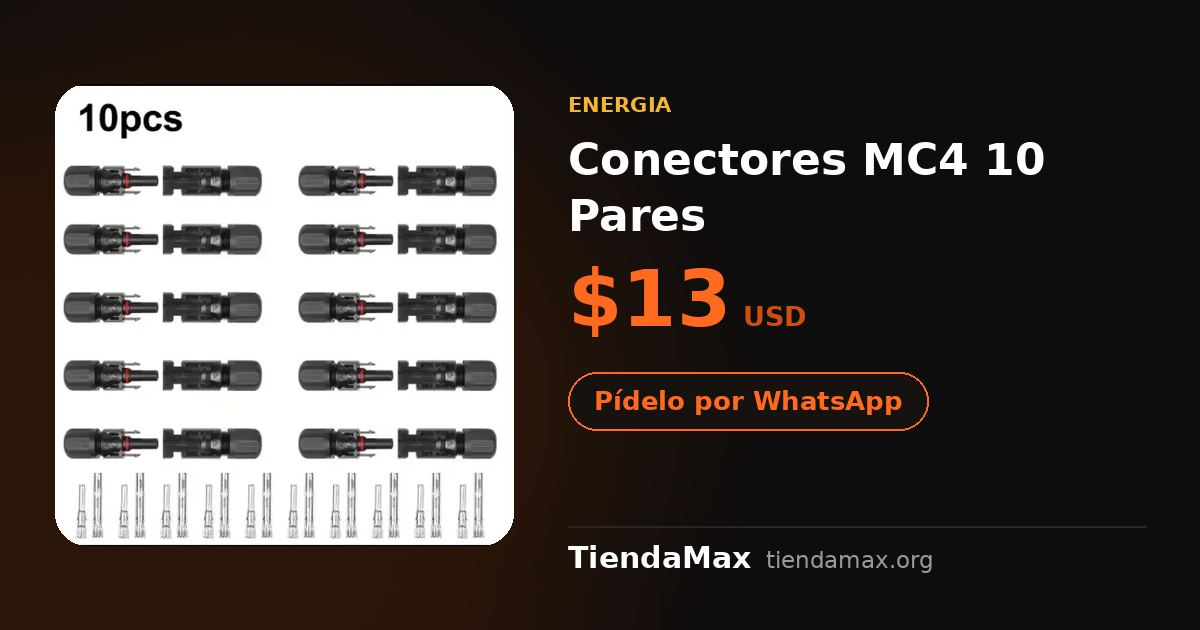
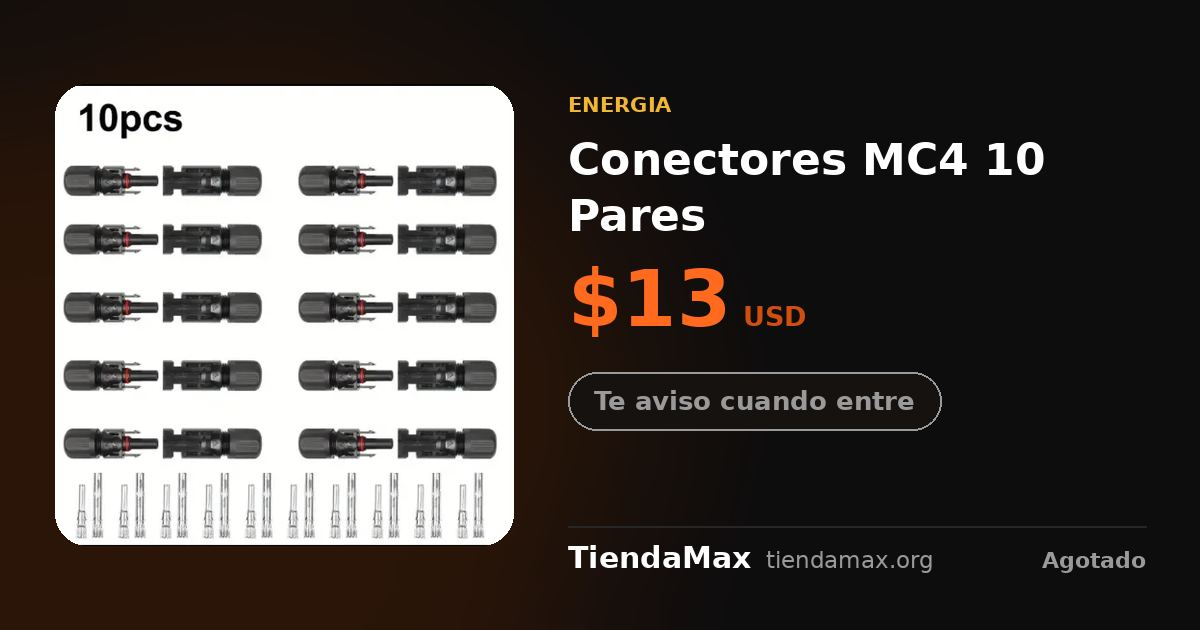
chore: regenerar artefactos (sitemap, /p/, subcats, seo) [skip ci]

Changed region(s): [[0.4625, 0.573, 0.8017, 0.6937], [0.8633, 0.8746, 0.9558, 0.9048]]

diff --git a/c/energia.html b/c/energia.html
@@ -4,13 +4,13 @@
 <meta charset="UTF-8">
 <meta name="viewport" content="width=device-width, initial-scale=1.0">
 <title>Energía en Cuba — Envío a domicilio | TiendaMax</title>
-<meta name="description" content="14 productos de energia disponibles en TiendaMax. Envío a toda Cuba, pago contra entrega en USD o MN.">
+<meta name="description" content="13 productos de energia disponibles en TiendaMax. Envío a toda Cuba, pago contra entrega en USD o MN.">
 <meta name="robots" content="index, follow">
 <link rel="canonical" href="https://tiendamax.org/c/energia.html">
 
 <meta property="og:type" content="website">
 <meta property="og:title" content="Energía en Cuba — Envío a domicilio | TiendaMax">
-<meta property="og:description" content="14 productos de energia disponibles en TiendaMax. Envío a toda Cuba, pago contra entrega en USD o MN.">
+<meta property="og:description" content="13 productos de energia disponibles en TiendaMax. Envío a toda Cuba, pago contra entrega en USD o MN.">
 <meta property="og:url" content="https://tiendamax.org/c/energia.html">
 <meta property="og:site_name" content="TiendaMax">
 <meta property="og:locale" content="es_CU">
@@ -20,7 +20,7 @@
   "@context": "https://schema.org",
   "@type": "CollectionPage",
   "name": "ENERGIA \u2014 TiendaMax",
-  "description": "14 productos de energia disponibles en TiendaMax. Env\u00edo a toda Cuba, pago contra entrega en USD o MN.",
+  "description": "13 productos de energia disponibles en TiendaMax. Env\u00edo a toda Cuba, pago contra entrega en USD o MN.",
   "url": "https://tiendamax.org/c/energia.html",
   "mainEntity": {
     "@type": "ItemList",
@@ -35,26 +35,26 @@
     {"@type": "ListItem", "position": 9, "url": "https://tiendamax.org/p/protector-tomzn-tovpd1-60", "name": "Protector de Voltaje y Sobrecorriente TOMZN TOVPD1-60"},
     {"@type": "ListItem", "position": 10, "url": "https://tiendamax.org/p/cargador-vevor-35a", "name": "Cargador y Mantenedor de Baterías VEVOR 35A"},
     {"@type": "ListItem", "position": 11, "url": "https://tiendamax.org/p/controlador-mppt-boost-1200w", "name": "Controlador MPPT Boost 1200W"},
-    {"@type": "ListItem", "position": 12, "url": "https://tiendamax.org/p/conectores-mc4-10-pares", "name": "Conectores MC4 10 Pares"},
-    {"@type": "ListItem", "position": 13, "url": "https://tiendamax.org/p/inversor-tataliken-3500w", "name": "Inversor Tataliken 3500W"},
-    {"@type": "ListItem", "position": 14, "url": "https://tiendamax.org/p/cargador-vevor-30a", "name": "VEVOR Cargador de Batería Inteligente 30A"},
-    {"@type": "ListItem", "position": 15, "url": "https://tiendamax.org/p/cargador-inteligente-15a", "name": "Cargador Inteligente 15A"},
-    {"@type": "ListItem", "position": 16, "url": "https://tiendamax.org/p/cargador-10-amperes", "name": "Cargador 10 Amperes"},
-    {"@type": "ListItem", "position": 17, "url": "https://tiendamax.org/p/controlador-mppt-100a-powmr", "name": "Controlador MPPT 100A POWMR"},
-    {"@type": "ListItem", "position": 18, "url": "https://tiendamax.org/p/inversor-hibrido-3600w", "name": "Inversor Solar Híbrido Inteligente MPPT de 3.6KW"},
-    {"@type": "ListItem", "position": 19, "url": "https://tiendamax.org/p/inversor-solar-powmr-5000w", "name": "Inversor Solar Híbrido POWMR 5000W"},
-    {"@type": "ListItem", "position": 20, "url": "https://tiendamax.org/p/controlador-mppt-100a", "name": "Controlador MPPT 100A"},
-    {"@type": "ListItem", "position": 21, "url": "https://tiendamax.org/p/bluetti-ac-180p", "name": "BLUETTI AC 180P"},
-    {"@type": "ListItem", "position": 22, "url": "https://tiendamax.org/p/cargador-portatil-solar", "name": "Cargador Portátil Solar"},
-    {"@type": "ListItem", "position": 23, "url": "https://tiendamax.org/p/cargador-inteligente-25a", "name": "Cargadores Inteligentes de 25A"},
-    {"@type": "ListItem", "position": 24, "url": "https://tiendamax.org/p/inversor-must-pv15-1524-lv", "name": "Inversor Solar Must PV15-1524 lv"},
-    {"@type": "ListItem", "position": 25, "url": "https://tiendamax.org/p/interruptor-geya-220v", "name": "Interruptor de Transferencia Automática Geya (220V)"},
-    {"@type": "ListItem", "position": 26, "url": "https://tiendamax.org/p/cargador-corebox-12v-15a", "name": "Cargador Corebox 12V 15A"},
-    {"@type": "ListItem", "position": 27, "url": "https://tiendamax.org/p/cargador-ntrc-20a", "name": "Cargador NTRC 20A"},
-    {"@type": "ListItem", "position": 28, "url": "https://tiendamax.org/p/cargador-ntrc-35a", "name": "Cargador NTRC 35A"},
-    {"@type": "ListItem", "position": 29, "url": "https://tiendamax.org/p/controlador-mppt-100a-usb", "name": "Controlador MPPT 100A Con USB"},
-    {"@type": "ListItem", "position": 30, "url": "https://tiendamax.org/p/controlador-mppt-150a", "name": "Controlador MPPT 150A"},
-    {"@type": "ListItem", "position": 31, "url": "https://tiendamax.org/p/controlador-mppt-120a-yh", "name": "Controlador MPPT 120A Y&H"}]
+    {"@type": "ListItem", "position": 12, "url": "https://tiendamax.org/p/inversor-tataliken-3500w", "name": "Inversor Tataliken 3500W"},
+    {"@type": "ListItem", "position": 13, "url": "https://tiendamax.org/p/cargador-vevor-30a", "name": "VEVOR Cargador de Batería Inteligente 30A"},
+    {"@type": "ListItem", "position": 14, "url": "https://tiendamax.org/p/cargador-inteligente-15a", "name": "Cargador Inteligente 15A"},
+    {"@type": "ListItem", "position": 15, "url": "https://tiendamax.org/p/cargador-10-amperes", "name": "Cargador 10 Amperes"},
+    {"@type": "ListItem", "position": 16, "url": "https://tiendamax.org/p/controlador-mppt-100a-powmr", "name": "Controlador MPPT 100A POWMR"},
+    {"@type": "ListItem", "position": 17, "url": "https://tiendamax.org/p/inversor-hibrido-3600w", "name": "Inversor Solar Híbrido Inteligente MPPT de 3.6KW"},
+    {"@type": "ListItem", "position": 18, "url": "https://tiendamax.org/p/inversor-solar-powmr-5000w", "name": "Inversor Solar Híbrido POWMR 5000W"},
+    {"@type": "ListItem", "position": 19, "url": "https://tiendamax.org/p/controlador-mppt-100a", "name": "Controlador MPPT 100A"},
+    {"@type": "ListItem", "position": 20, "url": "https://tiendamax.org/p/bluetti-ac-180p", "name": "BLUETTI AC 180P"},
+    {"@type": "ListItem", "position": 21, "url": "https://tiendamax.org/p/cargador-portatil-solar", "name": "Cargador Portátil Solar"},
+    {"@type": "ListItem", "position": 22, "url": "https://tiendamax.org/p/cargador-inteligente-25a", "name": "Cargadores Inteligentes de 25A"},
+    {"@type": "ListItem", "position": 23, "url": "https://tiendamax.org/p/inversor-must-pv15-1524-lv", "name": "Inversor Solar Must PV15-1524 lv"},
+    {"@type": "ListItem", "position": 24, "url": "https://tiendamax.org/p/interruptor-geya-220v", "name": "Interruptor de Transferencia Automática Geya (220V)"},
+    {"@type": "ListItem", "position": 25, "url": "https://tiendamax.org/p/cargador-corebox-12v-15a", "name": "Cargador Corebox 12V 15A"},
+    {"@type": "ListItem", "position": 26, "url": "https://tiendamax.org/p/cargador-ntrc-20a", "name": "Cargador NTRC 20A"},
+    {"@type": "ListItem", "position": 27, "url": "https://tiendamax.org/p/cargador-ntrc-35a", "name": "Cargador NTRC 35A"},
+    {"@type": "ListItem", "position": 28, "url": "https://tiendamax.org/p/controlador-mppt-100a-usb", "name": "Controlador MPPT 100A Con USB"},
+    {"@type": "ListItem", "position": 29, "url": "https://tiendamax.org/p/controlador-mppt-150a", "name": "Controlador MPPT 150A"},
+    {"@type": "ListItem", "position": 30, "url": "https://tiendamax.org/p/controlador-mppt-120a-yh", "name": "Controlador MPPT 120A Y&H"},
+    {"@type": "ListItem", "position": 31, "url": "https://tiendamax.org/p/conectores-mc4-10-pares", "name": "Conectores MC4 10 Pares"}]
   }
 }
 </script>
@@ -95,7 +95,7 @@
 
 <main class="tm-wrap">
   <h1>⚡ Energía</h1>
-  <p class="tm-sub">14 productos de energia disponibles en TiendaMax. Envío a toda Cuba, pago contra entrega en USD o MN.</p>
+  <p class="tm-sub">13 productos de energia disponibles en TiendaMax. Envío a toda Cuba, pago contra entrega en USD o MN.</p>
   <a href="https://tiendamax.org/?categoria=ENERGIA" class="tm-cta">🛍 Ver todo Energía en la tienda</a>
   <div class="tm-grid">
     <a class="tm-card" href="https://tiendamax.org/p/inversor-tataliken-4000w"><img src="https://tiendamax.org/imagenes/img_1777924118004.webp" alt="Inversor Tataliken 4000W" loading="lazy"><div class="tm-card-body"><div class="tm-card-name">Inversor Tataliken 4000W</div><div class="tm-card-price">$180.00 USD</div></div></a>
@@ -109,7 +109,6 @@
     <a class="tm-card" href="https://tiendamax.org/p/protector-tomzn-tovpd1-60"><img src="https://tiendamax.org/imagenes/img_1786633493204.webp" alt="Protector de Voltaje y Sobrecorriente TOMZN TOVPD1-60" loading="lazy"><div class="tm-card-body"><div class="tm-card-name">Protector de Voltaje y Sobrecorriente TOMZN TOVPD1-60</div><div class="tm-card-price">$20.00 USD</div></div></a>
     <a class="tm-card" href="https://tiendamax.org/p/cargador-vevor-35a"><img src="https://tiendamax.org/imagenes/img_1787071781631.webp" alt="Cargador y Mantenedor de Baterías VEVOR 35A" loading="lazy"><div class="tm-card-body"><div class="tm-card-name">Cargador y Mantenedor de Baterías VEVOR 35A</div><div class="tm-card-price">$125.00 USD</div></div></a>
     <a class="tm-card" href="https://tiendamax.org/p/controlador-mppt-boost-1200w"><img src="https://tiendamax.org/imagenes/img_1787079474093.webp" alt="Controlador MPPT Boost 1200W" loading="lazy"><div class="tm-card-body"><div class="tm-card-name">Controlador MPPT Boost 1200W</div><div class="tm-card-price">$90.00 USD</div></div></a>
-    <a class="tm-card" href="https://tiendamax.org/p/conectores-mc4-10-pares"><img src="https://tiendamax.org/imagenes/img_1788368386636.webp" alt="Conectores MC4 10 Pares" loading="lazy"><div class="tm-card-body"><div class="tm-card-name">Conectores MC4 10 Pares</div><div class="tm-card-price">$13.00 USD</div></div></a>
     <a class="tm-card" href="https://tiendamax.org/p/inversor-tataliken-3500w"><img src="https://tiendamax.org/imagenes/img_1777924118004.webp" alt="Inversor Tataliken 3500W" loading="lazy"><div class="tm-card-body"><div class="tm-card-name">Inversor Tataliken 3500W</div><div class="tm-card-price">$170.00 USD</div></div></a>
     <a class="tm-card" href="https://tiendamax.org/p/cargador-vevor-30a"><img src="https://tiendamax.org/imagenes/img_1788627369327.webp" alt="VEVOR Cargador de Batería Inteligente 30A" loading="lazy"><div class="tm-card-body"><div class="tm-card-name">VEVOR Cargador de Batería Inteligente 30A</div><div class="tm-card-price">$115.00 USD</div></div></a>
     <a class="tm-card" href="https://tiendamax.org/p/cargador-inteligente-15a"><img src="https://tiendamax.org/imagenes/img_1780510718915.webp" alt="Cargador Inteligente 15A" loading="lazy"><div class="tm-card-body"><div class="tm-card-name">Cargador Inteligente 15A</div><div class="tm-card-price">$65.00 USD</div><div class="tm-card-out">Agotado</div></div></a>
@@ -129,6 +128,7 @@
     <a class="tm-card" href="https://tiendamax.org/p/controlador-mppt-100a-usb"><img src="https://tiendamax.org/imagenes/img_1784825170677.webp" alt="Controlador MPPT 100A Con USB" loading="lazy"><div class="tm-card-body"><div class="tm-card-name">Controlador MPPT 100A Con USB</div><div class="tm-card-price">$80.00 USD</div><div class="tm-card-out">Agotado</div></div></a>
     <a class="tm-card" href="https://tiendamax.org/p/controlador-mppt-150a"><img src="https://tiendamax.org/imagenes/img_1784823614881.webp" alt="Controlador MPPT 150A" loading="lazy"><div class="tm-card-body"><div class="tm-card-name">Controlador MPPT 150A</div><div class="tm-card-price">$90.00 USD</div><div class="tm-card-out">Agotado</div></div></a>
     <a class="tm-card" href="https://tiendamax.org/p/controlador-mppt-120a-yh"><img src="https://tiendamax.org/imagenes/img_1786633894922.webp" alt="Controlador MPPT 120A Y&amp;H" loading="lazy"><div class="tm-card-body"><div class="tm-card-name">Controlador MPPT 120A Y&amp;H</div><div class="tm-card-price">$260.00 USD</div><div class="tm-card-out">Agotado</div></div></a>
+    <a class="tm-card" href="https://tiendamax.org/p/conectores-mc4-10-pares"><img src="https://tiendamax.org/imagenes/img_1788368386636.webp" alt="Conectores MC4 10 Pares" loading="lazy"><div class="tm-card-body"><div class="tm-card-name">Conectores MC4 10 Pares</div><div class="tm-card-price">$13.00 USD</div><div class="tm-card-out">Agotado</div></div></a>
   </div>
   <nav class="tm-nav-cats">
     <h2>Otras categorías</h2>

diff --git a/p/conectores-mc4-10-pares.html b/p/conectores-mc4-10-pares.html
@@ -12,9 +12,9 @@
 <!-- ═══ Open Graph (WhatsApp, Facebook, Instagram) ═══ -->
 <meta property="og:type" content="product">
 <meta property="og:title" content="⚡ Conectores MC4 10 Pares | TiendaMax">
-<meta property="og:description" content="✅ 7 disponibles · Pagas al recibirlo. Fabricados con polímero de ingeniería PPO ignífugo de alta densidad, estos conectores ofrecen una resistencia sobresaliente frente al desgaste ocasionado…">
-<meta property="og:image" content="https://tiendamax.org/og/producto-1788368389009.jpg?v=9d0f046702f31149">
-<meta property="og:image:secure_url" content="https://tiendamax.org/og/producto-1788368389009.jpg?v=9d0f046702f31149">
+<meta property="og:description" content="⏳ Agotado ahora · Te avisamos cuando vuelva. Fabricados con polímero de ingeniería PPO ignífugo de alta densidad, estos conectores ofrecen una resistencia sobresaliente frente al desgaste ocasionado…">
+<meta property="og:image" content="https://tiendamax.org/og/producto-1788368389009.jpg?v=703e0f8ae0668417">
+<meta property="og:image:secure_url" content="https://tiendamax.org/og/producto-1788368389009.jpg?v=703e0f8ae0668417">
 <meta property="og:image:width" content="1200">
 <meta property="og:image:height" content="630">
 <meta property="og:image:type" content="image/jpeg">
@@ -28,8 +28,8 @@
 <!-- ═══ Twitter Card ═══ -->
 <meta name="twitter:card" content="summary_large_image">
 <meta name="twitter:title" content="⚡ Conectores MC4 10 Pares | TiendaMax">
-<meta name="twitter:description" content="✅ 7 disponibles · Pagas al recibirlo. Fabricados con polímero de ingeniería PPO ignífugo de alta densidad, estos conectores ofrecen una resistencia sobresaliente frente al desgaste ocasionado…">
-<meta name="twitter:image" content="https://tiendamax.org/og/producto-1788368389009.jpg?v=9d0f046702f31149">
+<meta name="twitter:description" content="⏳ Agotado ahora · Te avisamos cuando vuelva. Fabricados con polímero de ingeniería PPO ignífugo de alta densidad, estos conectores ofrecen una resistencia sobresaliente frente al desgaste ocasionado…">
+<meta name="twitter:image" content="https://tiendamax.org/og/producto-1788368389009.jpg?v=703e0f8ae0668417">
 <meta name="twitter:image:alt" content="Conectores MC4 10 Pares">
 
 <!-- ═══ JSON-LD para Google ═══ -->
@@ -49,7 +49,7 @@
     "@type": "Offer",
     "price": "13.00",
     "priceCurrency": "USD",
-    "availability": "https://schema.org/InStock",
+    "availability": "https://schema.org/OutOfStock",
     "itemCondition": "https://schema.org/NewCondition",
     "url": "https://tiendamax.org/p/conectores-mc4-10-pares",
     "seller": {"@type": "Organization", "name": "TiendaMax"},
@@ -188,10 +188,19 @@
       
     </div>
     <p class="tm-desc">Fabricados con polímero de ingeniería PPO ignífugo de alta densidad, estos conectores ofrecen una resistencia sobresaliente frente al desgaste ocasionado por la radiación ultravioleta continua, la intemperie y temperaturas extremas (-40°C a +90°C), evitando deformaciones o quiebres con el paso de los años.</p>
-    <div class="tm-stok-y">En stock (7 disponibles)</div>
+    <div class="tm-stok-n">Agotado</div>
     <div class="tm-actions">
-      <a href="https://wa.me/5354320170?text=Hola%2C%20me%20interesa%3A%20Conectores%20MC4%2010%20Pares.%20https%3A//tiendamax.org/p/conectores-mc4-10-pares" class="tm-btn tm-btn-w" id="tmWa" target="_blank" rel="noopener noreferrer">💬 Pedir por WhatsApp</a>
-      <a href="https://tiendamax.org/?producto=1788368389009#producto-1788368389009" class="tm-btn tm-btn-s">🛍 Ver más en TiendaMax</a>
+      <button type="button" class="tm-btn tm-btn-p" id="tmAvisarBtn" aria-expanded="false" aria-controls="tmAviso">🔔 Avísame cuando vuelva</button>
+      <div class="tm-aviso" id="tmAviso">
+        <p>Déjame tu WhatsApp y te escribo apenas entre. Nada más: ni correo, ni registro.</p>
+        <div class="tm-aviso-row">
+          <input id="tmAvisoTel" type="tel" inputmode="tel" maxlength="25" autocomplete="tel" placeholder="5355551234" aria-label="Tu WhatsApp">
+          <button type="button" id="tmAvisoOk">Avisarme</button>
+        </div>
+        <div class="msg" id="tmAvisoMsg" role="status" aria-live="polite"></div>
+        <div class="luego">¿Prefieres el aviso automático en el móvil? <a href="https://tiendamax.org/?producto=1788368389009#producto-1788368389009">Actívalo en la tienda</a>.</div>
+      </div>
+      <a href="https://wa.me/5354320170?text=Hola%2C%20te%20escribo%20por%3A%20Conectores%20MC4%2010%20Pares.%20https%3A//tiendamax.org/p/conectores-mc4-10-pares" class="tm-btn tm-btn-s" id="tmWa" target="_blank" rel="noopener noreferrer">💬 Escríbeme</a>
     </div>
   </div>
 </main>
@@ -239,5 +248,62 @@ a.addEventListener('click',function(){if(frio('whatsapp_'+ID)){mas('/analytics/w
 </script>
 
 
+<script>
+(function(){
+  var BASE = "https://tiendamax-8feb5-default-rtdb.firebaseio.com";
+  var PID  = "1788368389009";
+  var btn  = document.getElementById('tmAvisarBtn');
+  var caja = document.getElementById('tmAviso');
+  var tel  = document.getElementById('tmAvisoTel');
+  var ok   = document.getElementById('tmAvisoOk');
+  var msg  = document.getElementById('tmAvisoMsg');
+  if(!btn || !caja || !tel || !ok || !msg) return;
+
+  var YA = 'tm_espera_' + PID;
+  function decir(t, clase){ msg.textContent = t; msg.className = 'msg ' + (clase||''); }
+
+  // Ya lo pidió desde este teléfono: no se le vuelve a preguntar.
+  try{ if(localStorage.getItem(YA)){
+    caja.classList.add('abierto');
+    btn.setAttribute('aria-expanded','true');
+    decir('\u2705 Ya tienes el aviso puesto. Te escribo apenas entre.','ok');
+    tel.style.display = ok.style.display = 'none';
+  } }catch(e){}
+
+  btn.addEventListener('click', function(){
+    var abierto = caja.classList.toggle('abierto');
+    btn.setAttribute('aria-expanded', abierto ? 'true' : 'false');
+    if(abierto) try{ tel.focus(); }catch(e){}
+  });
+
+  tel.addEventListener('keydown', function(e){ if(e.key === 'Enter') ok.click(); });
+
+  ok.addEventListener('click', function(){
+    // Los dos extremos los exige la regla de /lista_espera (6 a 25). Pasarse
+    // por arriba daba un rechazo mudo: el cliente veía "guardando" y nada más.
+    var n = (tel.value || '').replace(/[^0-9+]/g, '').slice(0, 25);
+    if(n.length < 6){ decir('Escribe un WhatsApp v\u00e1lido, con el c\u00f3digo si es de fuera.','err'); return; }
+    if(!BASE){ decir('No se pudo guardar. Escr\u00edbeme por WhatsApp y te apunto.','err'); return; }
+    ok.disabled = true; decir('Guardando\u2026','');
+    // Clave con azar además de la hora: la regla es "solo si no existe", y dos
+    // personas en el mismo milisegundo harían que la segunda se perdiera callada.
+    var clave = Date.now() + '_' + Math.random().toString(36).slice(2,8);
+    var ctrl = new AbortController();
+    var tid = setTimeout(function(){ ctrl.abort(); }, 8000);
+    fetch(BASE + '/lista_espera/' + PID + '/' + clave + '.json', {
+      method:'PUT', headers:{'Content-Type':'application/json'}, signal: ctrl.signal,
+      body: JSON.stringify({ tel:n, productoId:String(PID), ts:Date.now() })
+    }).then(function(r){
+      if(!r.ok) throw new Error('HTTP ' + r.status);
+      try{ localStorage.setItem(YA,'1'); }catch(e){}
+      decir('\u2705 Listo. Te escribo apenas entre.','ok');
+      tel.style.display = ok.style.display = 'none';
+    }).catch(function(){
+      ok.disabled = false;
+      decir('No se pudo guardar. Rev\u00edsa tu conexi\u00f3n o escr\u00edbeme por WhatsApp.','err');
+    }).then(function(){ clearTimeout(tid); });
+  });
+})();
+</script>
 </body>
 </html>

diff --git a/p/producto-1788368389009.html b/p/producto-1788368389009.html
@@ -7,9 +7,9 @@
 <meta name="robots" content="noindex, follow">
 <meta property="og:type" content="product">
 <meta property="og:title" content="⚡ Conectores MC4 10 Pares | TiendaMax">
-<meta property="og:description" content="✅ 7 disponibles · Pagas al recibirlo. Fabricados con polímero de ingeniería PPO ignífugo de alta densidad, estos conectores ofrecen una resistencia sobresaliente frente al desgaste ocasionado…">
-<meta property="og:image" content="https://tiendamax.org/og/producto-1788368389009.jpg?v=9d0f046702f31149">
-<meta property="og:image:secure_url" content="https://tiendamax.org/og/producto-1788368389009.jpg?v=9d0f046702f31149">
+<meta property="og:description" content="⏳ Agotado ahora · Te avisamos cuando vuelva. Fabricados con polímero de ingeniería PPO ignífugo de alta densidad, estos conectores ofrecen una resistencia sobresaliente frente al desgaste ocasionado…">
+<meta property="og:image" content="https://tiendamax.org/og/producto-1788368389009.jpg?v=703e0f8ae0668417">
+<meta property="og:image:secure_url" content="https://tiendamax.org/og/producto-1788368389009.jpg?v=703e0f8ae0668417">
 <meta property="og:image:width" content="1200">
 <meta property="og:image:height" content="630">
 <meta property="og:image:type" content="image/jpeg">
@@ -17,8 +17,8 @@
 <meta property="og:site_name" content="TiendaMax">
 <meta name="twitter:card" content="summary_large_image">
 <meta name="twitter:title" content="⚡ Conectores MC4 10 Pares | TiendaMax">
-<meta name="twitter:description" content="✅ 7 disponibles · Pagas al recibirlo. Fabricados con polímero de ingeniería PPO ignífugo de alta densidad, estos conectores ofrecen una resistencia sobresaliente frente al desgaste ocasionado…">
-<meta name="twitter:image" content="https://tiendamax.org/og/producto-1788368389009.jpg?v=9d0f046702f31149">
+<meta name="twitter:description" content="⏳ Agotado ahora · Te avisamos cuando vuelva. Fabricados con polímero de ingeniería PPO ignífugo de alta densidad, estos conectores ofrecen una resistencia sobresaliente frente al desgaste ocasionado…">
+<meta name="twitter:image" content="https://tiendamax.org/og/producto-1788368389009.jpg?v=703e0f8ae0668417">
 <script>location.replace("https://tiendamax.org/p/conectores-mc4-10-pares"+location.search+location.hash)</script>
 <meta http-equiv="refresh" content="0; url=https://tiendamax.org/p/conectores-mc4-10-pares">
 </head>
